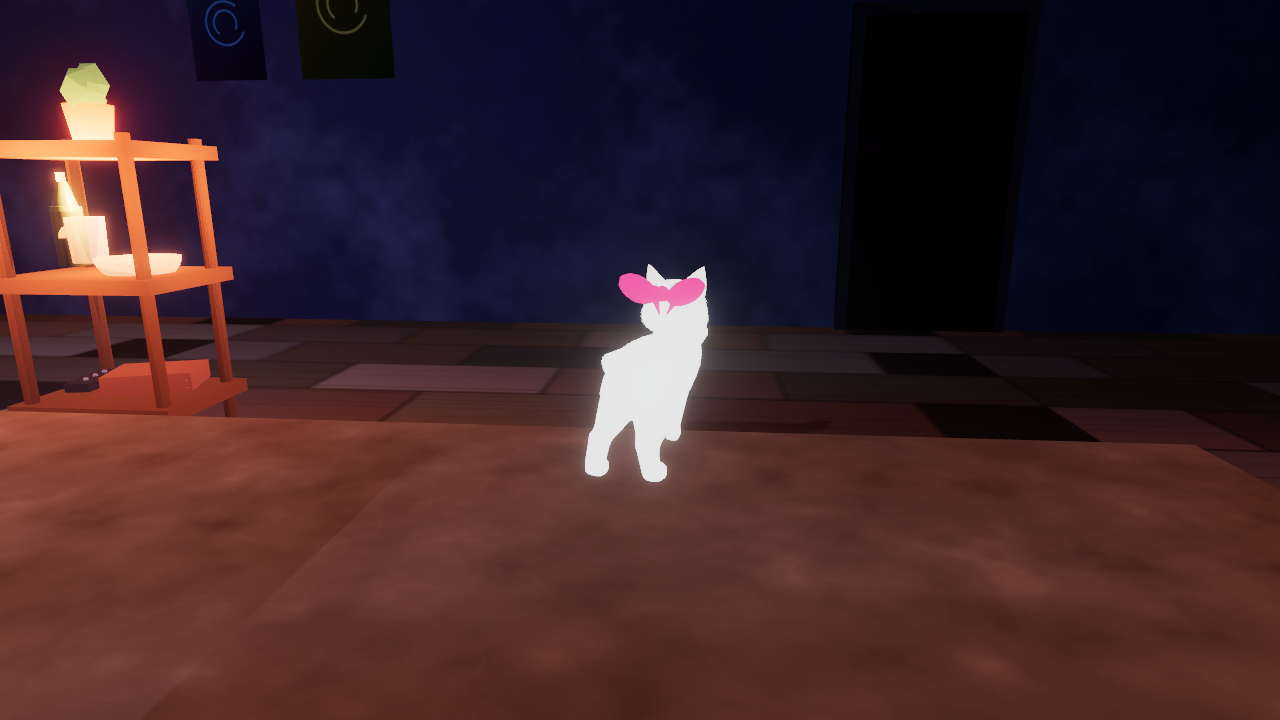
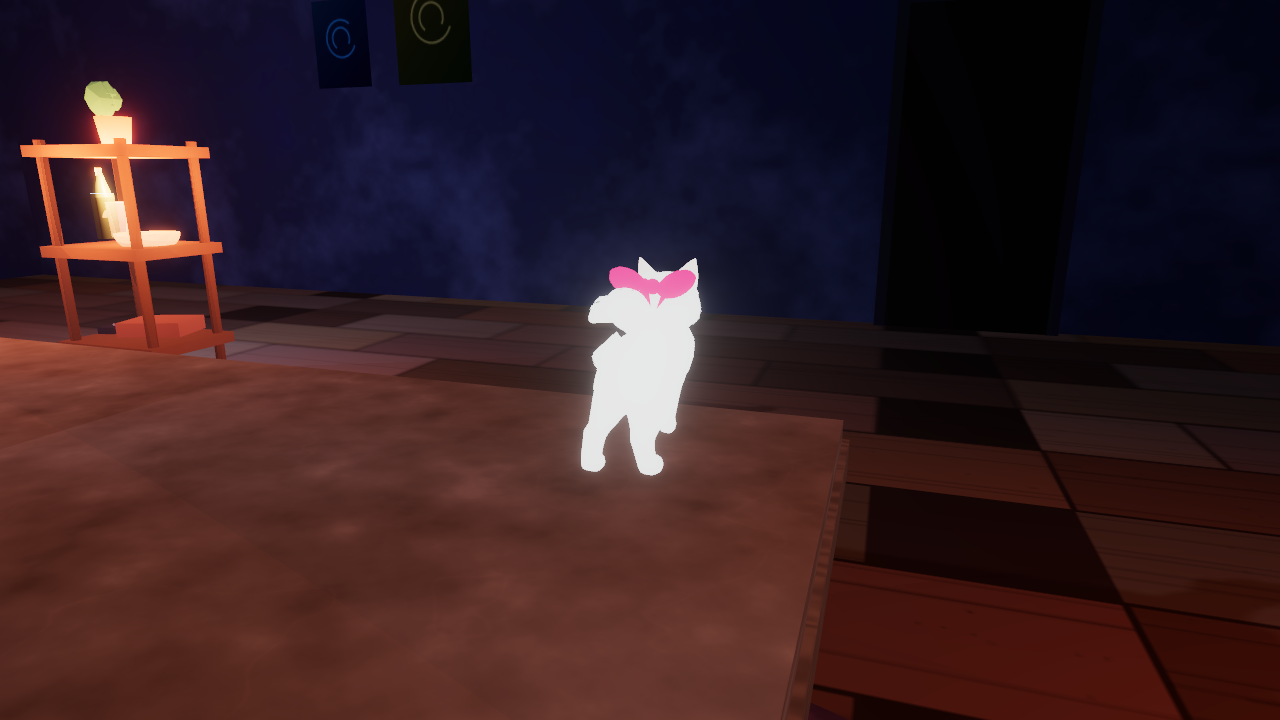
GS-ROOM-DETAIL: local stills after leftover +X cork (no GS-ROOM-SET rip).
Play OTS / isolation / walked via ?auto=1&level=N&instant=1 under
tools/out/gs-room-detail/. Kitchen BUILD 12 dressing untouched.
Stamp stays BUILD 12. No Pages.

diff --git a/src/game/Apartment.ts b/src/game/Apartment.ts
@@ -1114,18 +1114,18 @@ export class Apartment {
         // leftover empty +X BACK WALL — cork face the play OTS actually looks at
         // (window-side splash stays; this is the kitchen-fridge analogue)
         const corkFace = surfaceMat(panelSurface(0xb09068, 41), [1.2, 1.8]);
-        this.meshBox(lg, 0.07, 1.75, 0.95, corkFace, d.corkWall.x, d.corkWall.y, d.corkWall.z);
+        this.meshBox(lg, 0.07, 1.75, 1.15, corkFace, d.corkWall.x, d.corkWall.y, d.corkWall.z);
         for (let i = 0; i < 6; i++) {
           this.meshBox(
             lg,
-            0.012,
+            0.014,
+            0.26,
             0.2,
-            0.14,
-            roomMat([0xf2ead0, 0xd0e4f4, 0xf0c8c8, 0xe8dcc8][i % 4], { rough: 0.95 }),
-            d.corkWall.x - 0.045,
-            0.95 + (i % 3) * 0.38,
-            d.corkWall.z - 0.28 + Math.floor(i / 3) * 0.42,
-            (i - 2.5) * 0.04,
+            roomMat([0xf8f0dc, 0xd8eef8, 0xf8d0d0, 0xe8dcc0][i % 4], { rough: 0.95 }),
+            d.corkWall.x - 0.05,
+            0.92 + (i % 3) * 0.42,
+            d.corkWall.z - 0.32 + Math.floor(i / 3) * 0.48,
+            (i - 2.5) * 0.05,
           );
         }
         this.meshBox(lg, 0.42, 0.72, 0.38, darkWood, d.portraitCart.x, d.portraitCart.y, d.portraitCart.z);
@@ -1165,8 +1165,8 @@ export class Apartment {
         lg.add(corkLight);
         // leftover empty +X room wall (coffee TV analogue) — far enough not to billboard
         const farBoard = new THREE.Mesh(
-          new THREE.PlaneGeometry(1.7, 1.35),
-          new THREE.MeshStandardNodeMaterial({ map: posterTex(38), roughness: 0.92 }),
+          new THREE.PlaneGeometry(2.1, 1.55),
+          surfaceMat(panelSurface(0xb09068, 33), [2.2, 1.5]),
         );
         farBoard.position.set(6.88, 1.62, 0.38);
         farBoard.rotation.y = -Math.PI / 2;
